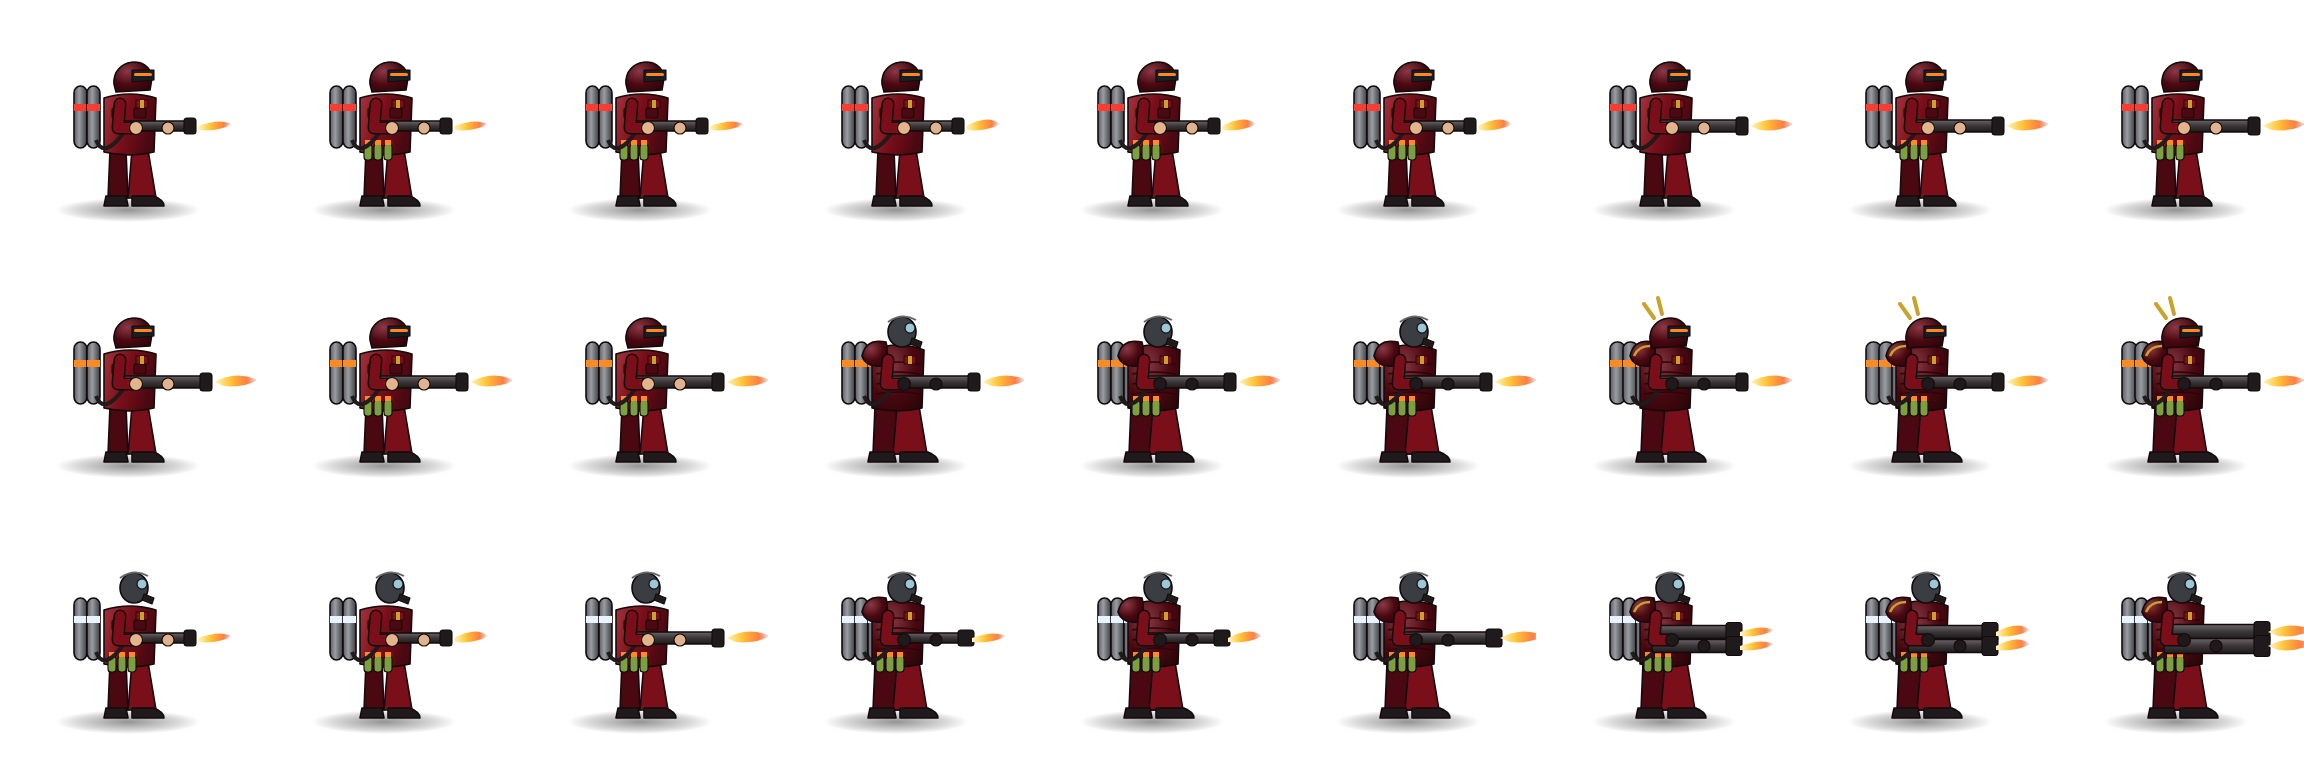
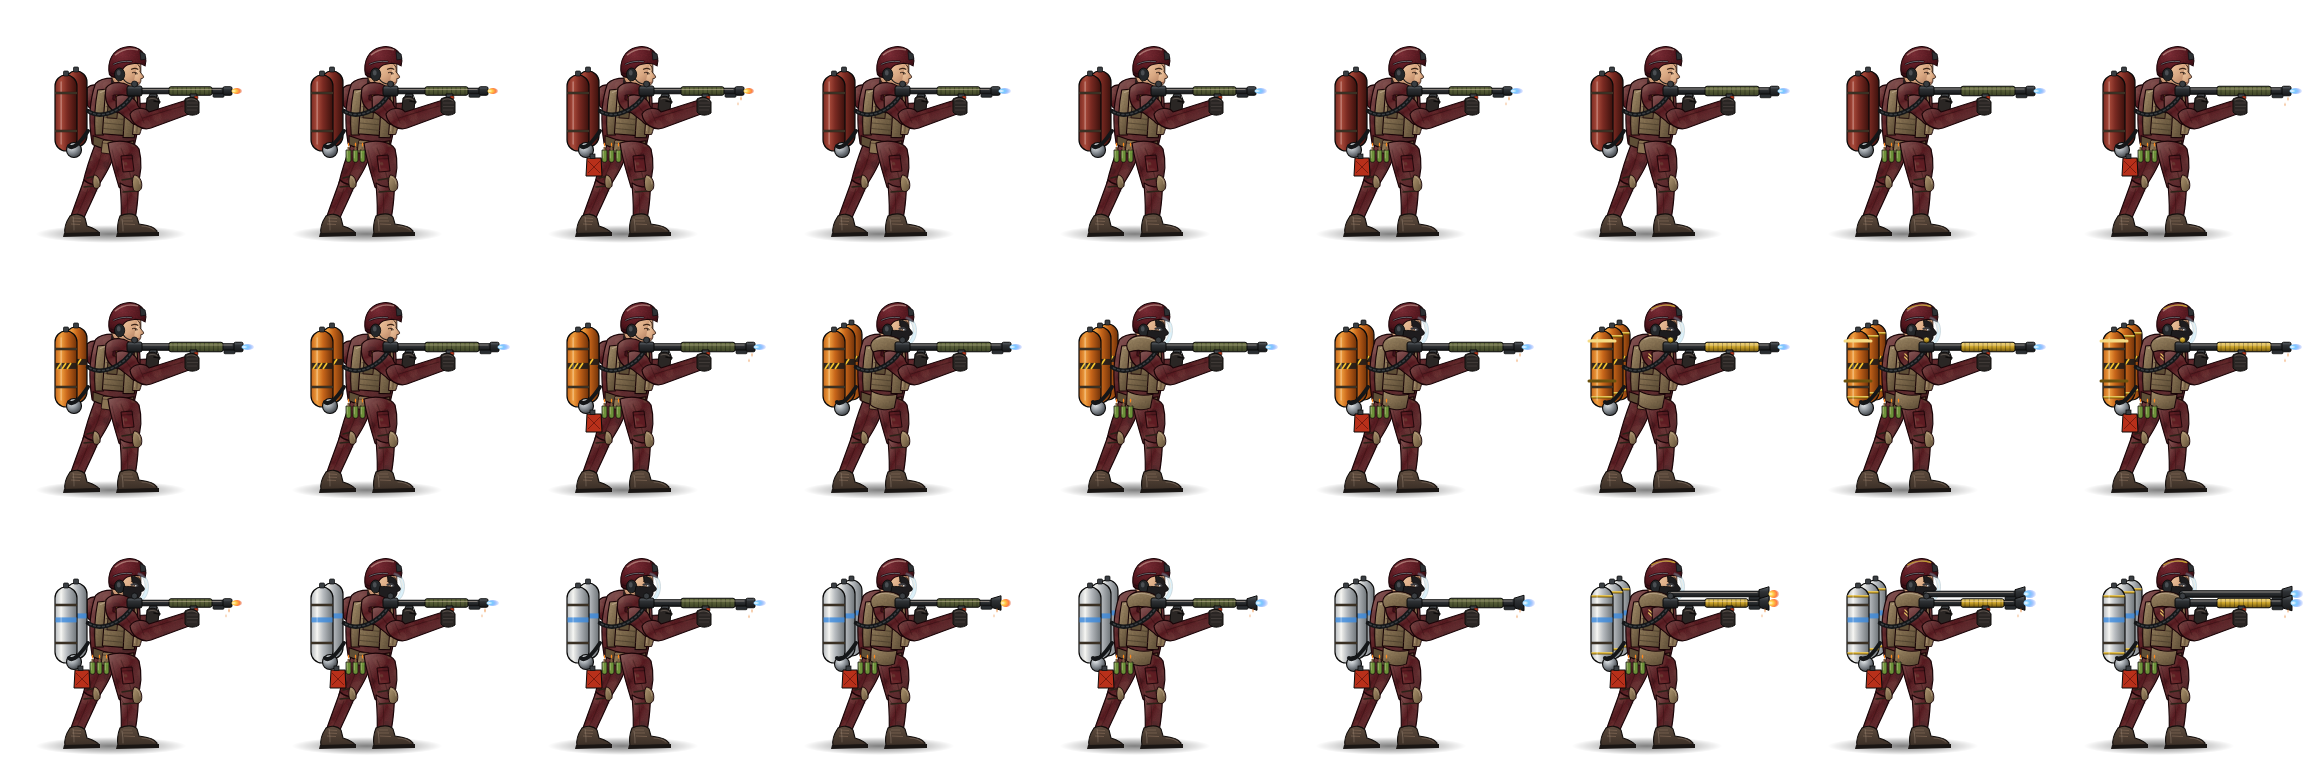
Flammenwerfer im neuen Detailstil; Juggernaut und Railgunner auf der Karte kleiner
Claude-Session: https://claude.ai/code/session_01H2UiKssafjRzK7unKsx8yK

diff --git a/spiel.js b/spiel.js
@@ -1,12 +1,14 @@
 // Maiskolbistan Militär-Defense – Testkarte 1 (Westkolbistan)
 // Reines JavaScript, kein Bau-Schritt. Grafiken aus dem Maiskolbistan-Info-Repo (seiten/td-ranger-sprites).
 'use strict';
-const VERSION = '2026-11-20-7';   // bei jedem Update hochzählen (auch in index.html)
+const VERSION = '2026-11-20-8';   // bei jedem Update hochzählen (auch in index.html)
 
 (() => {
   const W = 1140, H = 810, MITTE = 570;
   const EINHEIT = 14;           // 1 Reichweiten-Einheit (TDX-Wiki) = 14 px
   const TURM_GROESSE = 120;     // Draufsicht-Turm auf der Karte
+  // Zeichengröße auf der Karte; die Railgun-Stellung (Pfad B ab 3) ist größer als der Railgun-Soldat
+  const turmGroesse = (t) => { const d = TUERME[t.typ]; return (d.groesseStellung && t.b >= 3) ? d.groesseStellung : (d.groesse || TURM_GROESSE); };
   const fmt = (n) => Math.round(n).toLocaleString('de-DE');
   const $ = (id) => document.getElementById(id);
 
@@ -56,7 +58,7 @@ const VERSION = '2026-11-20-7';   // bei jedem Update hochzählen (auch in index
       info: 'Scharfschütze: riesige Reichweite, langsame, starke Schüsse. Erkennt Getarnte ab Adlerauge (Phantom 2).'
     },
     juggernaut: {
-      name: 'Juggernaut', kosten: 3200, schraeg: 'bilder/juggernaut_schraeg.png', json: 'juggernaut', tech: 'juggernaut', groesse: 150, platz: 30,
+      name: 'Juggernaut', kosten: 3200, schraeg: 'bilder/juggernaut_schraeg.png', json: 'juggernaut', tech: 'juggernaut', groesse: 105, platz: 30,
       pfade: ['Feuerwalze', 'Doppelfeuer'],
       basis: { dmg: 8, reload: 0.1, burst: 1, range: 15, dauerfeuer: true },
       A: [
@@ -76,7 +78,7 @@ const VERSION = '2026-11-20-7';   // bei jedem Update hochzählen (auch in index
       info: 'Juggernaut: Minigun im Dauerfeuer, enormer Schaden pro Sekunde. Feuerwalze durchschlägt ab Stufe 4 Panzerung, Doppelfeuer erkennt ab Stufe 3 Getarnte.'
     },
     railgun: {
-      name: 'Railgunner', kosten: 1600, schraeg: 'bilder/railgun_schraeg.png', json: 'railgun', tech: 'railgun', groesse: 150, platz: 30,
+      name: 'Railgunner', kosten: 1600, schraeg: 'bilder/railgun_schraeg.png', json: 'railgun', tech: 'railgun', groesse: 84, groesseStellung: 115, platz: 30,
       pfade: ['Schienen-Soldat', 'Geschützstellung'],
       basis: { dmg: 150, reload: 5, burst: 1, range: 22, laser: true },
       A: [
@@ -137,7 +139,7 @@ const VERSION = '2026-11-20-7';   // bei jedem Update hochzählen (auch in index
       info: 'Raketenwerfer: Raketen mit Explosion, Bonus gegen Panzer und Fahrzeuge. Panzerjäger-Pfad bis zur Javelin, unten bis zum Mehrfachwerfer.'
     },
     flamme: {
-      name: 'Flammenwerfer', kosten: 425, schraeg: 'bilder/flamme_schraeg.png', json: 'flamme', tech: 'flamme',
+      name: 'Flammenwerfer', kosten: 425, schraeg: 'bilder/flamme_schraeg.png', json: 'flamme', tech: 'flamme', groesse: 84,
       pfade: ['Hitze', 'Brandsatz'],
       basis: { dmg: 2, reload: 0.2, burst: 1, range: 6, brandDps: 1, brandDauer: 5, flamme: true },
       A: [
@@ -736,7 +738,7 @@ const VERSION = '2026-11-20-7';   // bei jedem Update hochzählen (auch in index
   }
   function muendung(t) {
     const code = t.a + '-' + t.b, info = A[t.typ].frames[code].bilder[0].muendung;
-    const k = (t.gr || TUERME[t.typ].groesse || TURM_GROESSE) / 160, mx = (info.x - 80) * k, my = (info.y - 80) * k, c = Math.cos(t.winkel), s = Math.sin(t.winkel);
+    const k = (t.gr || turmGroesse(t)) / 160, mx = (info.x - 80) * k, my = (info.y - 80) * k, c = Math.cos(t.winkel), s = Math.sin(t.winkel);
     return { x: t.x + mx * c - my * s, y: t.y + mx * s + my * c };
   }
   function geschossArt(t, w) {
@@ -1173,7 +1175,7 @@ const VERSION = '2026-11-20-7';   // bei jedem Update hochzählen (auch in index
       ctx.restore(); return;
     }
     const img = { ranger: A.rangerTop, sniper: A.sniperTop, juggernaut: A.jugTop, railgun: A.railTop }[t.typ] || A.top[t.typ];
-    const GR = TUERME[t.typ].groesse || TURM_GROESSE;
+    const GR = turmGroesse(t);
     const row = KOMBIS.indexOf(t.a + '-' + t.b);
     const fr = t.schussT < 0.04 ? 1 : t.schussT < 0.09 ? 2 : 0;
     ctx.save(); ctx.globalAlpha = alpha; ctx.translate(t.x, t.y); ctx.rotate(t.winkel);

diff --git a/index.html b/index.html
@@ -128,6 +128,6 @@ button{touch-action:manipulation}#feld{touch-action:none}
   <div id="toast" role="status" aria-live="polite" style="position:absolute;left:570px;top:96px;transform:translateX(-50%);display:none;z-index:5;background:#2B0509;border:2px solid #C9A227;border-radius:12px;padding:12px 20px;font-weight:800;font-size:17px;color:#E8C766;white-space:nowrap"></div>
   <div id="overlay"><div class="karte" id="overlayInhalt"></div></div>
 </div>
-<script src="spiel.js?v=2026-11-20-7"></script>
+<script src="spiel.js?v=2026-11-20-8"></script>
 </body>
 </html>

diff --git a/README.md b/README.md
@@ -135,7 +135,7 @@ Anzeige im Spiel: Rauch-, Lawinen- und Sandsturmwolken, eingefrorene Türme (bla
 
 ## Grafikstil (Umstellung läuft)
 
-Der **Ranger** ist im neuen, detaillierteren Stil gezeichnet (nach Fotovorlagen): vorgelehnter Anschlag, Plattenträger, Helm mit Headset, Gewehr in M4-Bauart, Stofftextur und Tarnmuster, Licht von oben links. Stufen: Präzision 1 Laservisier (Strahl) · 2 Elite (Zielfernrohr, goldene Winkel) · 3 Nachtsichtgerät · 4 schweres Gewehr (langer Lauf, Zweibein) · 5 leichtes MG mit Patronenkasten. Sturm 1 Goldspitzen-Munition · 2 Waffenlicht · 3 Schulter-, Hals- und Leistenschutz · 4 Granatwerfer und Handgranaten · 5 Sturmhaube mit Visier. Der **Scharfschütze** ist ebenfalls umgestellt (kniender Anschlag, Ellbogen auf dem Knie, Gewehr in M110-Bauart): Phantom 1 Buschhut + Tarnschminke · 2 Wärmebild-Vorsatz · 3 Schalldämpfer · 4 Ghillie-Kapuze und Tarnstreifen · 5 voller Ghillie mit Maisblättern; Schwerkaliber 1 längerer Lauf · 2 .50-Gewehr mit Mündungsbremse · 3 Helm und Panzerung · 4 Leuchtpistole · 5 Laser-Gewehr. Der **Juggernaut** ebenfalls (schwere Plattenrüstung mit Visierhelm, Minigun in M134-Bauart in Hüfthöhe, Munitionsrucksack mit Gurt): Feuerwalze 1 goldene Kraft-Handschuhe · 2 goldene Gelenkdämpfer · 3 lange Läufe · 4 Power-Minigun · 5 HE (glühende Läufe, rotes Visier, Hörner); Doppelfeuer 1 goldener Tragegriff · 2 AP-Gurt (gold) · 3 zweite Minigun am Schulterarm · 4 Cyan-Energierucksack · 5 Volle Leistung (Goldkanten). Der **Railgunner** ebenfalls (Körper wie der Ranger, Schienenkanone mit Spulenringen und leuchtendem Kanal, Batteriepack; ab Geschützstellung eine Stellung hinter einer dreilagigen Sandsackmauer mit Dreibein, Schutzschild, Kondensatorbank und Generator): Schienen-Soldat 1 Kühlzellen · 2 Zielfernrohr · 3 längere Schienen · 4 Kampfanzug · 5 Gold-Spulen; Geschützstellung 1 Proto-Munition (violett) · 2 Blitzbögen · 3 Stellung · 4 Doppelrohr · 5 XRT-9000 (goldene Kondensatorbank). Das **Logistik-Depot** ebenfalls (echte Schrägansicht mit Licht von links oben und Schlagschatten: Kiesplatz mit HESCO-Wall, Fahne, Holzkisten auf Paletten, Munitionskisten, Kornsäcke): Versorgung 1 mehr Kisten und Kanister · 2 Wellblech-Lagerhalle mit Rolltor und Flutlicht · 3 Lkw mit Plane · 4 Kornsilo mit Förderrohr · 5 Staatsreserve (Tresorbau, goldenes Silo, Goldbarren); Sanität 1 Sanitätszelt · 2 Feldlazarett mit Trage · 3 Krankenwagen · 4 Rettungshubschrauber auf Landeplatz · 5 Feldkrankenhaus aus Containern (grünes Kreuz). Die übrigen Türme folgen nacheinander.
+Der **Ranger** ist im neuen, detaillierteren Stil gezeichnet (nach Fotovorlagen): vorgelehnter Anschlag, Plattenträger, Helm mit Headset, Gewehr in M4-Bauart, Stofftextur und Tarnmuster, Licht von oben links. Stufen: Präzision 1 Laservisier (Strahl) · 2 Elite (Zielfernrohr, goldene Winkel) · 3 Nachtsichtgerät · 4 schweres Gewehr (langer Lauf, Zweibein) · 5 leichtes MG mit Patronenkasten. Sturm 1 Goldspitzen-Munition · 2 Waffenlicht · 3 Schulter-, Hals- und Leistenschutz · 4 Granatwerfer und Handgranaten · 5 Sturmhaube mit Visier. Der **Scharfschütze** ist ebenfalls umgestellt (kniender Anschlag, Ellbogen auf dem Knie, Gewehr in M110-Bauart): Phantom 1 Buschhut + Tarnschminke · 2 Wärmebild-Vorsatz · 3 Schalldämpfer · 4 Ghillie-Kapuze und Tarnstreifen · 5 voller Ghillie mit Maisblättern; Schwerkaliber 1 längerer Lauf · 2 .50-Gewehr mit Mündungsbremse · 3 Helm und Panzerung · 4 Leuchtpistole · 5 Laser-Gewehr. Der **Juggernaut** ebenfalls (schwere Plattenrüstung mit Visierhelm, Minigun in M134-Bauart in Hüfthöhe, Munitionsrucksack mit Gurt): Feuerwalze 1 goldene Kraft-Handschuhe · 2 goldene Gelenkdämpfer · 3 lange Läufe · 4 Power-Minigun · 5 HE (glühende Läufe, rotes Visier, Hörner); Doppelfeuer 1 goldener Tragegriff · 2 AP-Gurt (gold) · 3 zweite Minigun am Schulterarm · 4 Cyan-Energierucksack · 5 Volle Leistung (Goldkanten). Der **Railgunner** ebenfalls (Körper wie der Ranger, Schienenkanone mit Spulenringen und leuchtendem Kanal, Batteriepack; ab Geschützstellung eine Stellung hinter einer dreilagigen Sandsackmauer mit Dreibein, Schutzschild, Kondensatorbank und Generator): Schienen-Soldat 1 Kühlzellen · 2 Zielfernrohr · 3 längere Schienen · 4 Kampfanzug · 5 Gold-Spulen; Geschützstellung 1 Proto-Munition (violett) · 2 Blitzbögen · 3 Stellung · 4 Doppelrohr · 5 XRT-9000 (goldene Kondensatorbank). Das **Logistik-Depot** ebenfalls (echte Schrägansicht mit Licht von links oben und Schlagschatten: Kiesplatz mit HESCO-Wall, Fahne, Holzkisten auf Paletten, Munitionskisten, Kornsäcke): Versorgung 1 mehr Kisten und Kanister · 2 Wellblech-Lagerhalle mit Rolltor und Flutlicht · 3 Lkw mit Plane · 4 Kornsilo mit Förderrohr · 5 Staatsreserve (Tresorbau, goldenes Silo, Goldbarren); Sanität 1 Sanitätszelt · 2 Feldlazarett mit Trage · 3 Krankenwagen · 4 Rettungshubschrauber auf Landeplatz · 5 Feldkrankenhaus aus Containern (grünes Kreuz). Der **Flammenwerfer** ebenfalls (Körper wie der Ranger, Flammenrohr nach Bauart M2 mit Zündflamme, Schlauch, Rückentanks mit Druckgaskugel): Hitze 1 blaue Zündflamme · 2 größerer Werfer · 3 Napalm (orange Tanks mit Warnstreifen) · 4 M3 (drei Tanks, Schutzausrüstung) · 5 Exo-Flammenanzug (Gold, Tragegestell); Brandsatz 1 Zündflaschen am Gürtel · 2 Kanister und tropfende Düse · 3 Phosphor (weiße Tanks) · 4 Feuerwand (Breitdüse) · 5 Inferno-Werfer (Doppelrohr, Gold). Zeichengröße auf der Karte: Soldaten im Detailstil 84 px, Juggernaut 105 px, Railgun-Stellung 115 px (passend zu den Gegnern). Die übrigen Türme folgen nacheinander.
 
 ## Turm-Paket 1 (nach TDX-Wiki)
 
